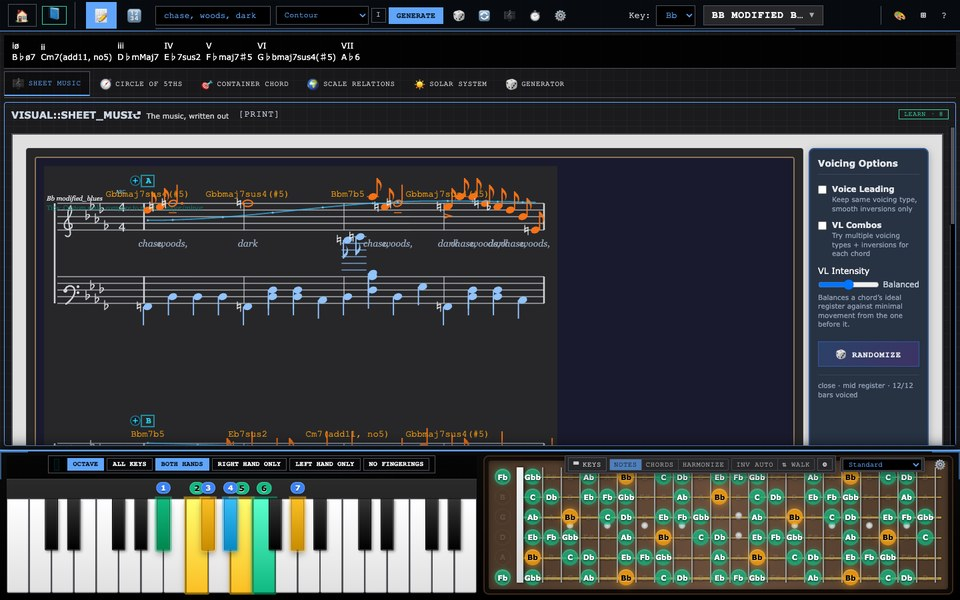
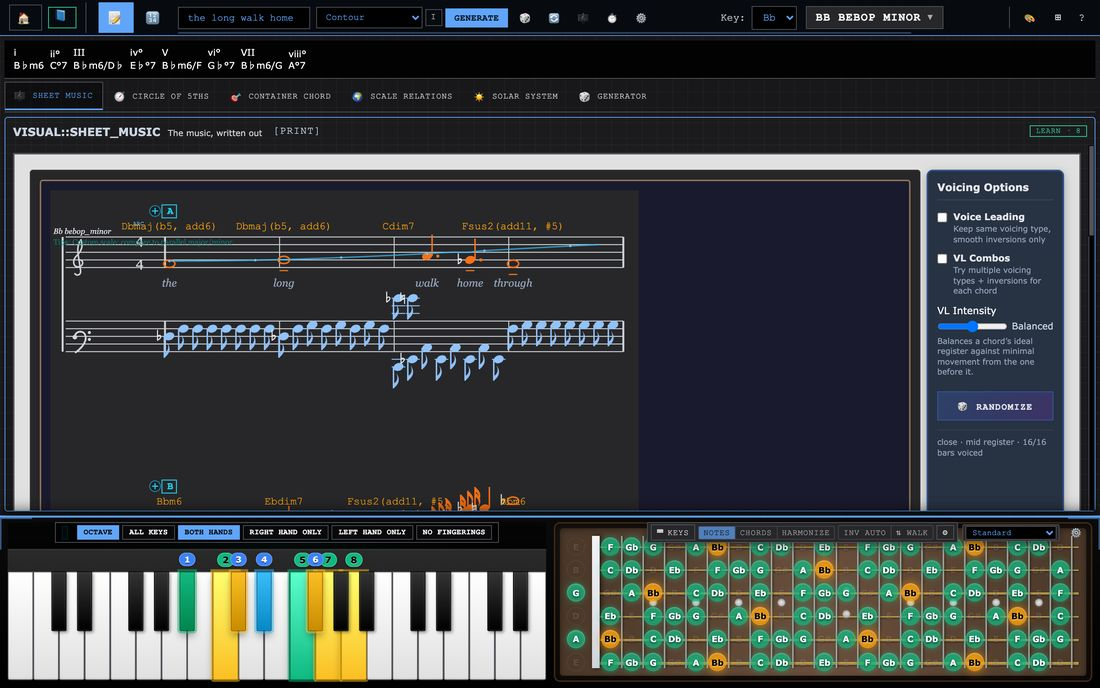
A README that describes the studio as it is now
Rewrites the README around what the app does today: five looks, the course
and Learn pages, the scale catalogue, the redrawn Solar System and Circle of
Fifths, and numbers first in the number generator. Adds a section on where
the work stands, with the known rough edges, and new screenshots throughout.

Test results are from this code: 44 of 51 engine tests and all 87 browser
checks at 1440x900. scale-switch-reset-test now fails because it still expects
roman numerals by default; it passes with that default flipped back.

Sets the GitHub Pages title, description and preview image, and corrects the
catalogue note on what the word generator chooses from.

diff --git a/README.md b/README.md
@@ -6,62 +6,128 @@
 
 Free · Runs in your browser · No install, no account · Nothing you type leaves your computer
 
-![The studio in its Stage & Wings look: the generated score across the whole stage, the input tools folded into a spine on the left and the reference tools on the right, a piano and a guitar neck along the bottom](media/studio-stage-wings.jpg)
+![The studio in its Stage & Wings look: a generated score across the whole stage with the words "the long walk home" under the staff, the input tools folded into a spine on the left and the reference tools on the right, a piano and a guitar neck along the bottom](media/studio-stage-wings.jpg)
 
-Music Theory Studio is a workshop for how music is made. Give it a phrase, such as *chase, woods, dark*, and it chooses a key and scale from what the words mean. It then plans a form, writes harmony, melody and accompaniment, and engraves the result as a score you can hear, play along with and export as MIDI.
+Music Theory Studio is a workshop for how music is made. Give it a phrase, such as *the long walk home through winter woods*, and it reads what the words mean. It then chooses a key and scale, plans a form, writes harmony, melody and accompaniment, and engraves the result as a score you can hear, play along with and export as MIDI. Every press of **Generate** is a new take.
 
-Then it shows its work. A borrowed chord or a note from outside the key can say where it came from and why it is there. The aim is not a random-music machine. It is a composer that can be questioned, inside a set of theory tools you can rearrange to match how you think, with a course that teaches from those same tools.
+Then it shows its work. A chord or a note from outside the key can say where it came from and why it is there. The aim is not a random-music machine. It is a composer that can be questioned, inside a set of theory tools you can rearrange to match how you think, with a course that teaches from those same tools.
 
 ---
 
 ## Try it in one minute
 
-1. **[Open the studio](https://parkerchace.github.io/MusicTheory/modular-music-theory.html)**, scroll past the course and the tool list, and press **Launch Full Studio**. To be taught first, pick a lesson from the course at the top of the page instead.
-2. Type a few words into the box in the top bar (try *the long walk home through winter woods*) and press **Generate**.
-3. Press **▶ Play** on the score. Some looks fold it behind **[CONTROLS]** in the score's header. Open **Where the music comes from**, just above the score, to see why each chord and colour was chosen.
-4. Click the piano. Your computer keyboard is now an instrument: `Z S X D C…` play notes, and holding **Shift** plays the scale's chords.
-5. Press **⊞** in the top bar and pick a different *look*. It is the same studio, arranged around a different idea.
+1. **[Open the studio](https://parkerchace.github.io/MusicTheory/modular-music-theory.html)**, scroll past the course, the tools and the looks, and press **Launch Full Studio**. To be taught first, pick a lesson from the course at the top of the page instead.
+2. Type a few words into the box in the top bar and press **Generate**.
+3. Press **▶ Play** in the score's toolbar. The studio opens in the OG look, where the toolbar sits above the score. Stage & Wings, Notation Desk and Luthier fold it behind **[CONTROLS]**, and Focus puts it below the score.
+4. Open **Where the music comes from** to see why each chord was chosen. It is above the score in OG and below the score in every other look.
+5. Click the piano. Your computer keyboard is now an instrument: `Z S X D C…` play notes, and holding **Shift** plays the scale's chords.
+6. Press **⊞** in the top bar and pick a different *look*. It is the same studio, arranged around a different idea.
+
+New here? The first launch offers a short tour, and the **?** menu has it again as Easy Mode, along with Demo Mode, which explains any tool you hover over.
 
 ---
 
 ## What's inside
 
 ### Words into music
-- **Meaning, not only sound.** Words are read against hand-built fields (motion, stillness, impact, rise, fall, bright, dark, tension, tenderness, sorrow, vastness, smallness), with "not", "very" and "barely" applied to the word that follows, and for how they sound and scan. A word the fields don't know counts as neutral rather than guessed at.
-- **Seven ways to read a text.** *Contour* plays the shape of a line you draw (with mouse, finger or pen). *Cipher* spells a melody from your letters. *Cast of Themes* turns each word into a recurring subject. *Spotting* treats sentences as film-cue sections, with punctuation as the edit. *Blocks* builds the whole piece from a handful of bars, reordered and stacked. *Pedal & Colour* holds one bass note under shifting harmony. *Two Lines* writes a melody on top and another on the bottom.
-- **A line that says what it draws.** In Contour, *The line is* sets what your drawing stands for: the energy of the whole piece, the shape of each phrase, the melody itself, or a short motif. *Suggest a shape* offers 15 named shapes to start from or keep.
-- **Real musical form.** 33 forms in 11 families: sentence and period, binary and rounded binary, rondo, sonata, fugal exposition, theme and variations, passacaglia, minuet and trio, call and response, and more. **Expand** turns a piece into a multi-movement *work*, from 8 plans (sonata cycle, song cycle, dance suite, concerto, diptych and others), with contrast between movements, a key plan that comes home, and later movements quoting earlier ones.
-- **Devices you can switch on.** *Approach scales* borrows a whole collection that points at the next chord and walks into it. *Departures* step out to another key's colour and come back.
+
+- **Meaning, not only sound.** Words are read against 12 hand-built fields (motion, stillness, impact, rise, fall, bright, dark, tension, tenderness, sorrow, vastness, smallness), with "not", "very" and "barely" applied to the word that follows, and for how they sound and scan. A word the fields don't know counts as neutral rather than guessed at. The meaning leans the choice of key and shapes the piece; the rest comes from the take's seed.
+- **Seven ways to read a text.** *Contour* plays the shape of a line you draw. *Cipher* spells a melody from your letters. *Cast of Themes* turns each word into a recurring subject. *Spotting* treats sentences as film-cue sections, with punctuation as the edit. *Blocks* builds the whole piece from a handful of bars, reordered and stacked. *Pedal & Colour* holds one bass note under shifting harmony. *Two Lines* writes a melody on top and another on the bottom. The **ⓘ** beside the menu says what the current reading does.
+- **A line that says what it draws.** In Contour, draw with a mouse, finger or pen. *The line is* sets what the drawing stands for: the whole piece, each phrase, the melody itself, or a short motif. *Suggest a shape* offers 15 named shapes to start from or keep, such as False Summit, Lament and Eye of the Storm. Rhythm, melody and harmony dials sit underneath.
+
+![The Contour panel: a drawn curve labelled False Summit, what the line stands for, rhythm, melody and harmony dials, and the words as chips](media/contour.jpg)
+
+- **Real musical form.** 33 forms in 11 families: sentence and period, binary and rounded binary, bar form, the 12-bar blues, verse-chorus, rondo, sonata, fugal exposition, theme and variations, passacaglia, arch, minuet and trio, call and response, and more.
+- **Whole works.** **Expand**, on the score's toolbar, turns a piece into a multi-movement *work*, from 8 plans (sonata cycle, song cycle, baroque suite, concerto, diptych and others), with contrast between movements, a key plan that comes home, and later movements quoting earlier ones. Length is adjustable.
+- **Two devices that change the harmony.** *Approach scales* borrow a whole collection that points at the next chord and walk into it, with a choice of collections and how often. *Departures* step out to another key's colour, and you choose how they move and whether they come home.
 
 ### A composer that explains itself
+
 - **Outside notes are placed on purpose.** A chromatic note comes from somewhere: a borrowed collection, a leading tone, an approach, a planned excursion. Tests measure how many slip through without a reason.
-- **Where the music comes from** opens above the score. It gives the home key, the form, each borrowed chord with its source scale and purpose (you can audition each one), every trip out of the key and back, the progression, why melody notes leave the scale, and how the texture changes.
-- **Change one thing at a time.** *Adjust this take* keeps the seed and changes a single decision, so you hear only that decision.
+- **Where the music comes from** gives the home key, the form, each borrowed chord with its source scale and purpose (you can audition each one), every trip out of the key and back, the progression bar by bar, why melody notes leave the scale, and how the texture changes. Type a progression there to browse the approach chords into it.
+- **Change one thing at a time.** *Adjust this take* keeps the seed and changes a single decision, so you hear only that decision: piano or four-part texture, the form, and 11 harmonic devices (sevenths, inversions, secondary dominants, borrowed chords, chromatic mediants and others) set to auto, on or off. **New take** rolls a new seed when you want one.
+
+![Where the music comes from, open: the home key, the verse-chorus form, the progression by section, and a reason for every chord bar by bar](media/where-the-music-comes-from.jpg)
+
+### Hear it and perform it
+
+- **Nine playback voices:** piano (plain, with reverb, pad or strings), strings, guitar, electric piano, and R&B synth and pad.
+- **Feel that a performance does:** four swing settings, three levels of expressive timing, and notes pushed or laid back against the grid.
+- **18 voicing styles** (close, drops, shells, quartal, gospel, rootless and more) plus 5 automatic strategies, with voice leading between chords. Set them for the whole piece or bar by bar.
+- **MIDI export** to any DAW, matching what is on the page.
 
 ### A course that teaches inside the studio
+
 - **20 lessons at three levels.** *Beginner* covers notes, scales, chords, inversions, chord symbols, endings and common progressions. *Intermediate* covers voicings and drop 2, bebop major, and the 5-of and 4-of ways into any chord. *Advanced* covers approach chords, chromatic mediants and progressions into a target. Intermediate and Advanced are built from the lecture *Finding Melodies in Scales*.
-- **Lessons use the real tools.** A studio lesson lays out only the tools it needs and leaves the rest in a drawer. **Show me** points at the control, **Do it for me** makes the setting, and each step ticks itself when the studio reaches that state. Other lessons have playable tables and games: chord symbols on any root, guess-the-ending, and progressions that load into the generator.
-- **Five guided Learn pages** cover notes on piano, notes on guitar, scales, chords and inversions, each with a check and a next lesson. Choose the guitar and the whole course stays on it: necks in place of keyboards, its sound, its words, and in studio lessons a dock with only the guitar. The piano, scales and chords pages listen to the typing keyboard and to MIDI, so you can practise on a real instrument.
-- **Tools point back to lessons.** In every look but OG, a *Learn* chip on each module lists the lessons that use it.
+- **Lessons use the real tools.** A studio lesson lays out only the tools it needs and leaves the rest in a *More tools* drawer. **Show me** points at the control and a button beside it makes the setting for you. Steps that set something tick themselves when the studio reaches that state. Five lessons add a playable part: chord symbols on any root, a guess-the-ending game, progressions that load into the generator, and tables of the ways into a chord.
+- **Five guided Learn pages** cover notes on piano, notes on guitar, scales, chords and inversions. Each has its own practice or check and a way on to the next lesson. Progress is saved in your browser.
+- **Your instrument, all the way through.** Choose the guitar and the Learn pages show necks in place of keyboards, with its sound and its words, and studio lessons show a dock with only the guitar. The piano, guitar, scales and chords pages listen to the typing keyboard and to MIDI, so you can practise on a real instrument.
+- **Tools point back to lessons.** A *Learn* chip on a module header lists the lessons that use it, and the Studio tools cards on the landing page do the same. The OG look and folded rails don't show the chip.
+
+<p>
+  <img src="media/course-landing.jpg" width="49%" alt="The course on the landing page: Beginner, Intermediate, Advanced and Whole course tabs, the instrument menu, and the numbered Fundamentals lessons">
+  <img src="media/course-lesson.jpg" width="49%" alt="A studio lesson on drop 2 voicings: the lesson card on the right with playable examples, and a Show me callout pointing at the Voicing menu">
+</p>
+<p>
+  <img src="media/learn-guitar-notes.jpg" width="49%" alt="The Notes on your instrument page on guitar: a neck with a tuning menu and short numbered lessons beside it">
+  <img src="media/learn-chords-guitar.jpg" width="49%" alt="The Chords from intervals page on guitar: root and chord-type buttons, a chord built up one step at a time on small necks">
+</p>
 
 ### A studio you can rearrange, and learn from
-- **Five built-in "looks"** rearrange the same tools around a different principle. *Stage & Wings* gives the score the whole stage with every tool a click away at the edges. *Notation Desk* keeps page proportions and puts the reference tools behind a drawer. *Luthier* is for players and puts the fretboard first. *Focus* shows one tool at a time. *OG* is the original layout, never altered.
-- **Build your own look.** Remix any look or start from a skeleton, give each zone a purpose, and name the idea behind it. Looks save in your browser and export as a small `.look.json` file another person can import.
 
+- **Five built-in looks** rearrange the same tools around a different principle. *OG* is the original layout, with everything on screen, and is where the studio opens. *Stage & Wings* (at the top of this page) gives the score the whole stage, with every tool a click away at the edges. *Notation Desk* keeps page proportions and puts the reference tools behind a drawer. *Luthier* is for players and puts the fretboard first. *Focus* shows one tool at a time.
+- **Build your own look.** Remix any look or start from a skeleton, give each zone a purpose, and name the idea behind it. Looks save in your browser and export as a small `.look.json` file another person can import.
+- **Four visual themes:** Clean DAW, Channel Strip, Matrix FX and Steam 2000. The 🎨 button steps through them.
+
+<p>
+  <img src="media/look-og.jpg" width="49%" alt="The OG look: the number generator in a left column, the chord strip and sheet music with its full toolbar, and a piano and neck below">
+  <img src="media/look-notation-desk.jpg" width="49%" alt="The Notation Desk look: the score centred with page proportions and a folded reference drawer at the right edge">
+</p>
 <p>
   <img src="media/look-luthier.jpg" width="49%" alt="The Luthier look: a full-width guitar fretboard across the top, theory tools in a compact column, the score and a large piano below">
   <img src="media/look-focus.jpg" width="49%" alt="The Focus look: the chord strip above a row of tabs, and the score alone beneath them">
 </p>
 
 ### Play it
-- **Your computer keyboard is an instrument**, laid out like FL Studio's: two rows of piano keys, ← → for octave and ↑ ↓ for velocity. It never takes over while you are typing in a text box.
-- **Chords mode** puts the scale's chords under your fingers, with sevenths on the row above and secondary dominants on the black keys. Each chord is voiced by the same engine that voices the score: 18 voicing styles (close, drops, shells, quartal, gospel, rootless and more) plus 5 automatic voicing strategies, with voice leading between chords. **A** picks the inversion. **F** "walks" the inversions as you play.
-- **Harmonize mode** treats what you play as a melody and puts a chord from the scale underneath it. It works with a MIDI keyboard too.
-- **One guitar tuning everywhere.** Choose from 12 tunings (Drop D, DADGAD, open tunings and more) or type your own. Every neck has the menu, in the studio and on the Learn pages. Necks, chord shapes and lessons all follow it, and it is remembered for your next visit.
-- **Nine playback voices** (piano, electric piano, strings, guitar, pads), **MIDI export** to any DAW, and a print-ready score.
 
-### Reference
-A scale library of **all 2,048 sets of notes that contain a root** (see below), each with a key signature computed from its own notes. A circle of fifths, a chord finder ("which chords contain these notes?"), a scale finder ("which scales contain this chord?"), a solar-system map of the scale, and four visual themes.
+- **Your computer keyboard is an instrument**, laid out like FL Studio's: two rows of piano keys, ← → for octave and ↑ ↓ for velocity. It never takes over while you are typing in a text box.
+- **Chords mode** puts the scale's chords under your fingers, with sevenths on the row above and secondary dominants on the black keys. Each chord goes through the same voicing engine as the score. **A** picks the inversion. **F** "walks" the inversions as you play.
+- **Harmonize mode** treats what you play as a melody and puts a chord from the scale underneath it. It works with a MIDI keyboard too.
+- **One guitar tuning everywhere.** Choose from 12 tunings (Drop D, DADGAD, open tunings and more) or type your own. Necks, chord shapes and lessons all follow it, and it is remembered for your next visit.
+- **A piano that shows its work:** scale degrees in colour, and standard fingerings for either hand or both, which you can turn off.
+
+### The tools
+
+| Tool | What it does |
+| --- | --- |
+| **Sheet Music** | The score: the toolbar for staff, bars, tempo, voicing, feel, sound and Expand, plus **+** marks to add a section to the form |
+| **Chord Strip** | One chord for each degree of the scale |
+| **Circle of 5ths** | Keys as wedges, with a relative-minor ring. Clicking one changes the studio's key. Switches to 4ths or chromatic order, and numbers the scale's notes (Notes / 1 2 3 / Both) |
+| **Solar System** | The scale as orbits around its tonic, with every note a numbered planet on its own ring. Click a planet to zoom in on its moons: the chords that lead to it or hold it, each numbered from the planet and named for its role. Click a moon to add it to the score |
+| **Container Chord** | "Which chords contain these notes?" Type or pick the notes, narrow the list to the scale if you like, and add a chord to the score |
+| **Scale Relations** | "Which scales contain this chord?" Filters by tonic, then previews a scale on a piano with its chords, or applies it |
+| **Generator** | Type a progression as numbers, numerals or chord names, or generate one with a logic of your choice, then rotate it, run it backwards or swap in a common progression. It writes degrees as numbers, and the **123** button switches them to roman numerals |
+| **Piano and Fretboard** | The instrument dock along the bottom, showing the scale and the chord being played |
+
+<p>
+  <img src="media/solar-system.jpg" width="49%" alt="The Solar System tool in G Mixolydian: a sun labelled G and seven numbered planets, each on its own ring">
+  <img src="media/circle-of-fifths.jpg" width="49%" alt="The Circle of Fifths in G Mixolydian: the scale's notes as numbered green wedges, a relative-minor ring, and a panel with the scale and closest keys">
+</p>
+
+![Zoomed in on the fifth planet, D: its moons on their own rings, labelled with chord names, and a list naming each one's role, such as tritone sub, five-of and chromatic mediant](media/solar-moons.jpg)
+
+### The scale catalogue
+
+**All 2,048 sets of notes that contain a root**, with over 3,800 further names kept alongside the display names and shown in their own traditions. Dorian also appears as 22 Kharaharapriyā under Carnatic and Kafi thaat under Hindustani. Names that no source confirms are marked as such, and scales from other traditions are marked as approximations in twelve notes.
+
+- **Four ways in:** a Family Tree of 24 families, each organised by its own tradition's system (modes, jazz parents, thaats, melakarta, maqam and more), a Special View, and From Major or From Minor by how many notes differ.
+- **Search by any name,** ignoring case, diacritics and ♭/b spelling, and see which name matched. "Kafi", "raga bhim" and "mixolydian b6" all work.
+- **Spelled from its own notes.** Seven-note scales get a key signature counted from the scale itself. Other sizes are written without a signature.
+
+<p>
+  <img src="media/scale-picker-tree.jpg" width="49%" alt="The scale picker's family tree: Major at the top and 23 family buttons beneath it, from Hybrid Major-Minor Systems to Experimental and Neo-Theoretical">
+  <img src="media/scale-picker-search.jpg" width="49%" alt="Searching the scale picker for kafi: four results, including Kafi Thaat, shown as a name of Dorian">
+</p>
 
 ---
 
@@ -75,43 +141,37 @@ Most generative music is individually correct and collectively about nothing. Th
 - **Pachelbel**: a melody on top and a melody on the bottom at the same time.
 - **Ellington**: a highlighted moment is built on and escalated, not repeated.
 
-That philosophy runs through the whole app. Each look is a theory of what belongs next to what. The score can account for its chromatic notes. The musical rules are checked by tests in `tools/` that measure them across hundreds of generated pieces.
+That philosophy runs through the whole app. Each look is a theory of what belongs next to what. The score can account for its chromatic notes. The musical rules are checked by tests in `tools/` that measure them across many seeded pieces.
 
 ---
 
 ## Where the work stands
 
-*As of November 5, 2026.*
+*As of November 6, 2026.*
 
-### In progress: repairing the scale catalogue
+### Finishing: the scale catalogue
 
-The scale picker was the part of the app that most misrepresented what it knew. Names had lost their accidentals ("Mixolydian 6" was really Mixolydian ♭6), each scale had only one name, 119 scales couldn't be reached, and 562 of the 2,048 possible sets of notes were missing, including Whole Tone, Bebop Dominant and Chromatic. This repair is planned to finish by November 13.
-
-| Phase | What it does | Status |
-| --- | --- | --- |
-| 0. Safety net | Records a baseline of every test and scale id, adds a catalogue test, and fixes Learn Scales' Harmonic and Melodic Minor, which pointed at the wrong scales | **Done** |
-| 1. Family rules | A scale now earns its family by name, not by a guess from its intervals. Blues went from 1,044 scales to the 15 that are really blues | **Done** |
-| 2. Ids and names | Generates the catalogue from a build script: a unique id for every scale, accidentals restored, every old name kept, and every other name a scale answers to kept and shown in its own family (Dorian appears as 22 Kharaharapriyā under Carnatic and Kafi thaat under Hindustani). Raga parents that sources disagree on are stored as main + alternates; names no source supports are marked unconfirmed | **Done** |
-| 3. Search | Finds a scale by any of its names, ignoring case, diacritics and ♭/b spelling, and shows which name matched. "Kafi", "raga bhim" and "mixolydian b6" all work | **Done** |
-| 4. Word generator | Was to limit word generation to well-known scales | **Dropped:** the generator keeps the whole catalogue |
-| 5. Missing scales | Adds the 562 missing sets, for all 2,048, places them in families, and checks the app stays fast at that size | **Done:** placed; the picker and chord analysis were timed at the full size |
-| 6. Finish | Updates the counts, runs every check at both window widths, and rehearses the demo path | In progress |
+The scale picker was the part of the app that most misrepresented what it knew. Names had lost their accidentals, each scale had only one name, 119 scales couldn't be reached, and 562 of the 2,048 sets of notes were missing, including Whole Tone and Chromatic. Family rules, unique ids, restored names, search by any name and the full 2,048 are all in. What remains, planned by November 13, is a final run of every check at both window widths and a rehearsal of the demo path.
 
 ### Recently finished
 
-- **Looks and the typing keyboard:** looks as validated data, the look builder, chord and harmonize modes, and the inversion walk.
-- **The course:** lessons for all three levels, lesson steps tied to real controls, and playable widgets.
-- **Learn page consistency:** one header, one check and one way to the next lesson across all five pages, with Learn Chords and Learn Notes on guitar rebuilt.
-- **Guitar tuning:** one setting shared by every neck and Learn page, with the menu on every neck in every look. The instrument chosen for the course now holds through every lesson.
-- **The grading key is gone:** the key, its Functional / Emotional / Color menu and its unbuilt Help items are removed. The piano keeps its degree colours and the chord finder keeps plain fit labels. Looks saved with the key still load, without it.
-- **Contour:** drawn by hand with named shape suggestions, with the old word lexicons removed in favour of a smaller word reader.
+- **Number generator:** degrees are written as numbers first, with roman numerals a click away. The Play Sequence and Harmonize buttons are gone, and the left column in OG holds its width.
+- **Solar System and Circle of Fifths:** both redrawn to fit any look, with numbers on the notes and one thin control bar. See [The tools](#the-tools).
+- **Five looks instead of thirteen:** the ones that gave every tool room to work.
+- **The course:** lessons for all three levels, steps tied to real controls, playable widgets, and one shared frame for all five Learn pages.
+- **Guitar tuning:** one setting shared by every neck and Learn page. The instrument chosen for the course holds through its lessons.
+- **The grading key is gone:** the piano keeps its degree colours and the chord finder keeps plain fit labels. Looks saved with the key still load, without it.
+- **Contour:** drawn by hand with named shape suggestions, with the old word lexicons replaced by a smaller word reader.
 
 ### Known rough edges
 
 - **Undo in text boxes:** Ctrl/Cmd+Z in a text box hits an error and does nothing.
+- **Printing:** the score's **[PRINT]** button isn't connected to anything yet.
 - **Stopping:** a score that is playing can keep going after you leave the studio.
-- **Engraving:** the score can print a raw scale id and a "Tips" line inside the staff, and lyrics can collide.
-- **Number generator:** **Play Sequence** does nothing yet.
+- **Engraving:** the score prints a raw scale id above the staff and a "Tips" line across it, and lyrics can collide.
+- **Guitar in the course:** the chord-symbols table in *Reading chord symbols* always draws a keyboard, even when you chose the guitar.
+- **Harmonization mode:** the Generator's three choices reach the score, but none of them changes a generated piece yet. The chord picking behind them was removed with the old progression builder.
+- **Leftovers:** a greyed-out *Send → Bitwig* button on the score's toolbar, a Generator hint pointing at a "Control Deck" that no longer exists, and some landing-page tool descriptions older than the tools they describe.
 - **Long sessions:** the app's interaction log grows without limit.
 
 ### Planned next
@@ -132,7 +192,7 @@ The scale picker was the part of the app that most misrepresented what it knew. 
 
 ## Running it yourself
 
-It is plain HTML, CSS and JavaScript with no build step and no dependencies to install.
+It is plain HTML, CSS and JavaScript with no build step and nothing to install.
 
 ```sh
 git clone https://github.com/parkerchace/MusicTheory.git
@@ -147,7 +207,7 @@ Opening `modular-music-theory.html` straight from disk also works. A local serve
 
 ### Tests
 
-**Engine tests** run in JavaScriptCore, which ships with macOS, so no Node is required. There are 49 files in `tools/`, and the slowest takes about a minute:
+**Engine tests** run in JavaScriptCore, which ships with macOS, so no Node is required. There are 51 files in `tools/`, and the slowest takes about a minute:
 
 ```sh
 JSC=/System/Library/Frameworks/JavaScriptCore.framework/Versions/Current/Helpers/jsc
@@ -155,9 +215,9 @@ $JSC tools/<name>-test.js                 # one test
 for t in tools/*.js; do $JSC "$t" > /dev/null 2>&1 || echo "FAILED $t"; done
 ```
 
-On November 5, 2026, 45 of the 49 passed on the rebuilt catalogue. The other four are long-standing: `accidentals-test` (78 of 27,152 melody notes have no explanation), `melodic-paths-test`, `metric-hierarchy-test` and `modal-excursion-test`.
+On November 6, 2026, 44 of the 51 passed. Of the other seven, four are long-standing musical targets not yet met: `accidentals-test` (78 melody notes have no explanation), `melodic-paths-test`, `metric-hierarchy-test` and `modal-excursion-test`. Three are out of date and need updating: `look-schema-test` and `look-wire-test` still ask for looks that were removed, and `scale-switch-reset-test` still expects the Generator to write roman numerals by default.
 
-**Browser checks** drive the real app in muted headless Chrome. There are 85, and a full run takes 40 minutes or more per window width, so split it with `--shard`:
+**Browser checks** drive the real app in muted headless Chrome. There are 87, and a full run takes 40 minutes or more per window width, so split it with `--shard`:
 
 ```sh
 python3 tools/screens/look-screens.py checks                   # all checks at 1440x900
@@ -168,6 +228,8 @@ python3 tools/screens/look-screens.py shots                    # a screenshot of
 python3 tools/screens/look-screens.py course                   # the landing page and every studio lesson
 ```
 
+On November 6, 2026, all 87 passed at 1440x900 with no page errors.
+
 ### Where things live
 
 | Area | Files |
@@ -176,9 +238,9 @@ python3 tools/screens/look-screens.py course                   # the landing pag
 | Words → context | `context-engine.js`, `word-character-engine.js`, `semantic-contour-engine.js`, `scale-intelligence-engine.js`, `scoring-methods.js` (the seven readings and the devices) |
 | Composition | `arc-ui-init.js` (the pipeline), `form-planner.js`, `functional-harmony.js`, `harmony-complexity.js`, `progression-library.js`, `numeric-progression.js`, `approach-engine.js`, `scale-colour.js`, `melodic-line-engine.js`, `piano-texture-engine.js` |
 | Contour and adjusting a take | `composition-timeline-ui.js`, `contour-meaning.js`, `composition-controls.js` |
-| Score, voicing, playback, MIDI | `sheet-music-generator.js`, `voice-leading-engine.js`, `music-provenance-panel.js`, `simple-audio-engine.js`, `enhanced-audio-engine.js`, `piano-sample-engine.js` |
-| Theory data and scale picker | `music-theory-engine.js`, `chord-attribute-engine.js`, `scales-data-embedded.js`, `scales-loader-embedded.js`, `scale-taxonomy.js`, `scale-library.js`, `scale-helper.js`, `tools/scales/` (the catalogue build) |
-| Theory tools | `number-generator.js`, `container-chord-tool.js`, `scale-relationship-explorer.js`, `scale-circle-explorer.js`, `solar-system-visualizer.v2.js` |
+| Score, voicing, playback, MIDI | `sheet-music-generator.js`, `voice-leading-engine.js`, `music-provenance-panel.js`, `logic-path-3d.js`, `simple-audio-engine.js`, `enhanced-audio-engine.js`, `piano-sample-engine.js` |
+| Theory data and scale picker | `music-theory-engine.js`, `chord-attribute-engine.js`, `scales-data-embedded.js`, `scales-loader-embedded.js`, `scale-taxonomy.js`, `scale-library.js`, `scale-helper.js`, [`tools/scales/`](tools/scales/README.md) (the catalogue build) |
+| Theory tools | `number-generator.js`, `container-chord-tool.js`, `scale-relationship-explorer.js`, `scale-circle-explorer.js`, `solar-system-visualizer.v2.js`, `viz-controls.css` (the bar the circle and the solar system share) |
 | Looks | `look-schema.js` (what a look is, and its validator), `studio-looks.js`, `look-builder.js`, `module-fit.js` |
 | Instruments and input | `piano-visualizer.js`, `guitar-fretboard-visualizer.js`, `guitar-tuning.js` (the one tuning every neck reads), `instrument-dock.js`, `qwerty-keys.js`, `qwerty-chords.js`, `midi-input-manager.js` |
 | Course | `course.js` (the lessons), `course-runner.js` (a lesson inside the studio), `course-theory.js` (spelling and chord naming), `course-widgets.js` (playable tables and games), `course.css` |

diff --git a/tools/scales/README.md b/tools/scales/README.md
@@ -16,7 +16,7 @@ One entry per set of notes that contains the root: 2,048 in all.
 | `id` | stable key used by code; an id that existed before keeps the notes it resolved to |
 | `name` | the display name: the name a learner is most likely to know |
 | `aliases` | every other name, as `[text, kind]` or `[text, kind, "u"]` when the name is not confirmed for these notes |
-| `wellKnown` | on the hand-listed scales; the word generator chooses only among these |
+| `wellKnown` | on the hand-listed scales; the picker sorts these first. The word generator uses the whole catalogue |
 | `melakarta` | the Carnatic parent-scale number, 1–72 |
 | `ragas` | ragas that use these notes: `n` name, `s` system (`h`/`c`), `p` parent thaat or melakarta number, `alt` other parents sources give, `up`/`dn` ascent and descent as written, `pu`/`pd` the same as semitones when they could be read, `j` jati, `w` weakly sourced, `u` unconfirmed |
 | `maqam` | for Arabic names, the family by first jins |
